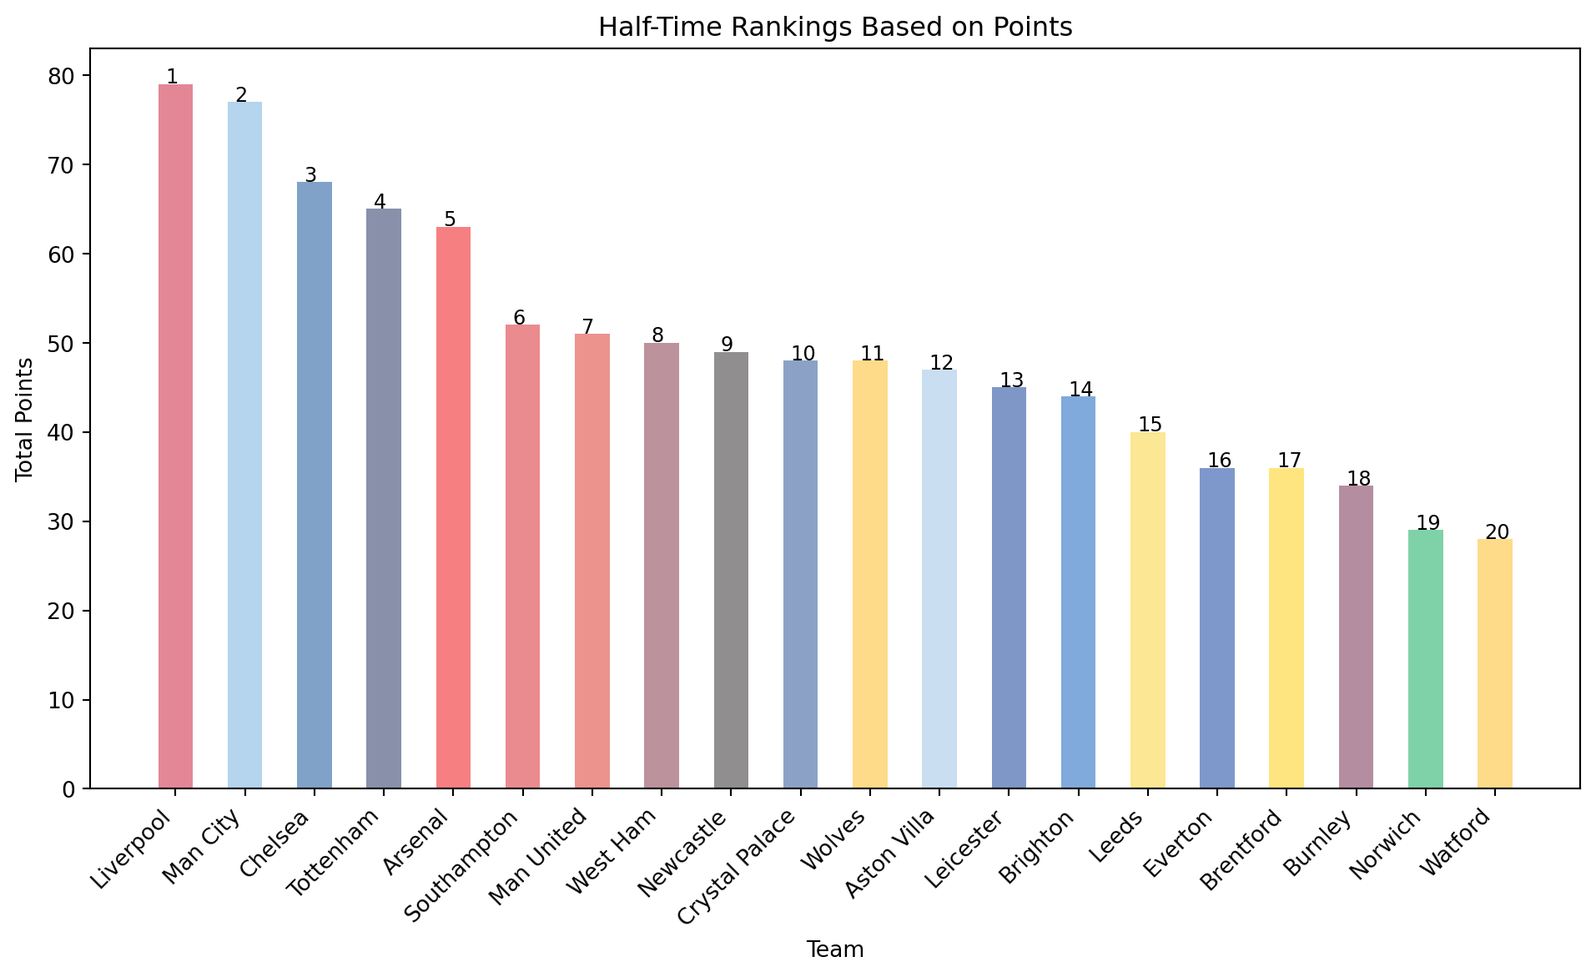
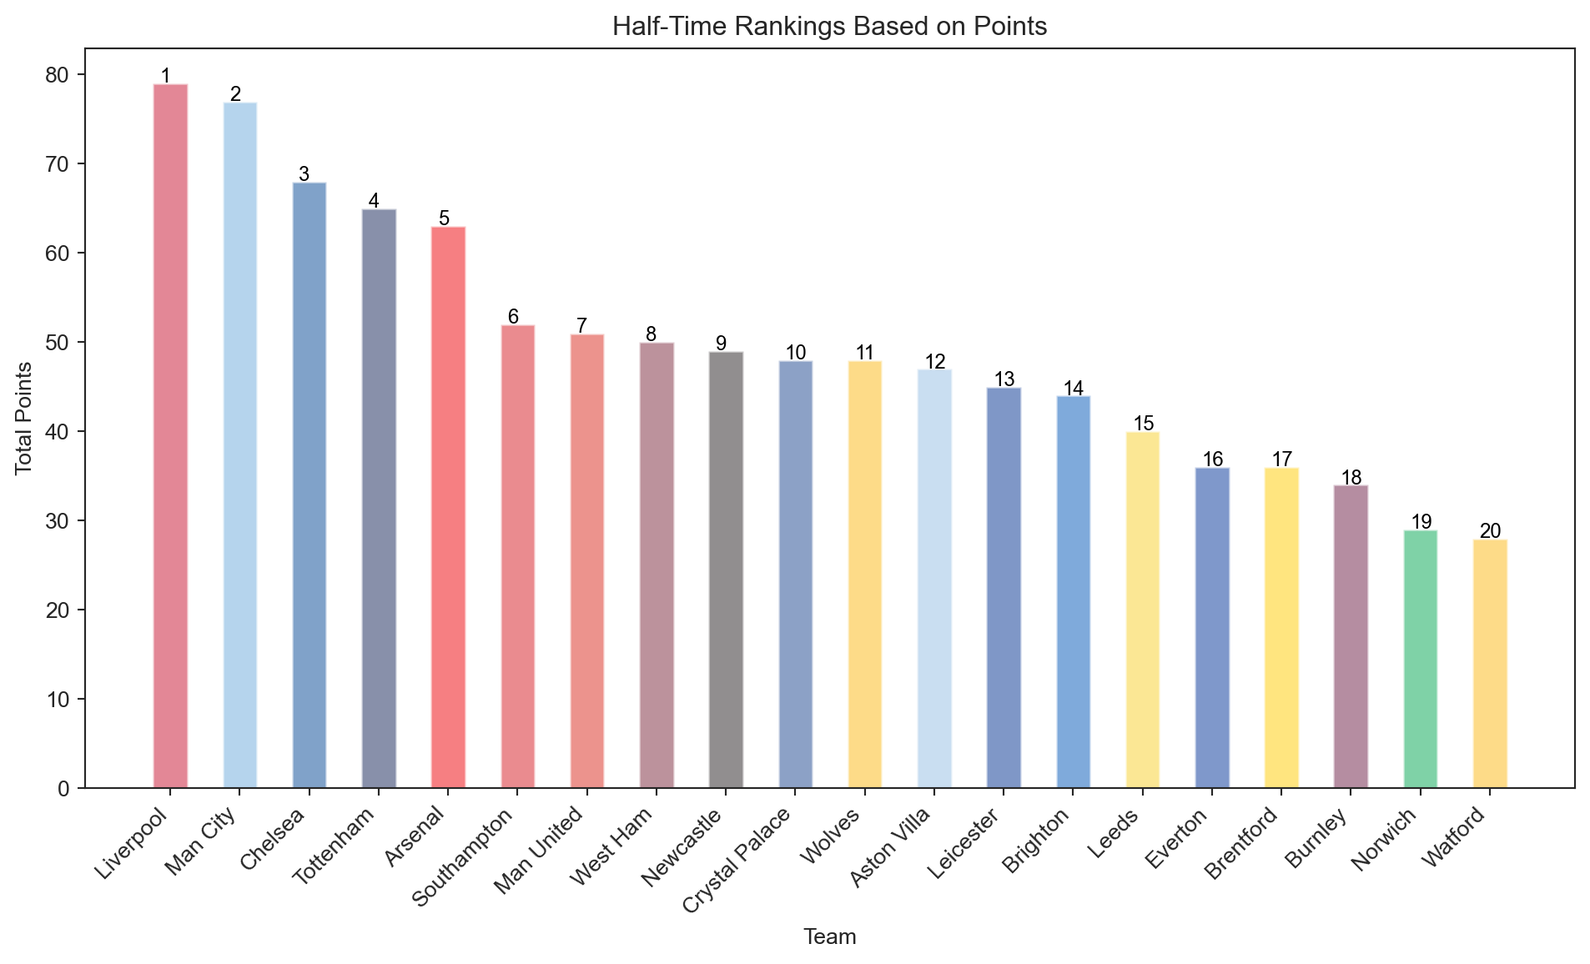
Finalized Q2

diff --git a/_site/index.html b/_site/index.html
@@ -226,7 +226,7 @@ pre > code.sourceCode > span > a:first-child::before { text-decoration: underlin
 <h3 class="anchored" data-anchor-id="approach">Approach</h3>
 <p>First, we do a logistic regression analysis to see how in-game metrics might be used to predict a home team’s outcome. We choose relevant attributes such as shots, shots on goal, fouls committed, and cards both the home and away teams have earned. To guarantee the robustness of the model, the dataset is divided into training and testing sets. The logistic regression model is then trained, and its effectiveness is assessed using an accuracy score and a confusion matrix. We are able to measure the effect of every in-game indicator on the probability that the home team will win thanks to this scientific approach.</p>
 <p><strong>Data Preparation and Pre-processing</strong> We begin the data preparation step by loading the entire football dataset, which includes a wealth of match information from the 2021–2022 English Premier League season. We convert the full-time result (FTR) into a binary target variable called “Result,” where a “1” denotes a home team win, to make our analysis easier. Then, we choose crucial elements that could have an impact on how the game turns out, like shots, shots on goal, fouls, and cards both the home and away teams receive. We then divided the dataset into training and testing sets, which prepared the stage for creating and assessing our prediction model. The data is ready for perceptive examination thanks to this careful preparation.</p>
-<div id="699314e5" class="cell" data-execution_count="1">
+<div id="5237353c" class="cell" data-execution_count="1">
 <div class="sourceCode cell-code" id="cb1"><pre class="sourceCode python code-with-copy"><code class="sourceCode python"><span id="cb1-1"><a href="#cb1-1" aria-hidden="true" tabindex="-1"></a><span class="im">import</span> pandas <span class="im">as</span> pd</span>
 <span id="cb1-2"><a href="#cb1-2" aria-hidden="true" tabindex="-1"></a><span class="im">import</span> matplotlib.pyplot <span class="im">as</span> plt</span>
 <span id="cb1-3"><a href="#cb1-3" aria-hidden="true" tabindex="-1"></a><span class="im">import</span> seaborn <span class="im">as</span> sns</span>
@@ -259,7 +259,7 @@ pre > code.sourceCode > span > a:first-child::before { text-decoration: underlin
 <span id="cb1-30"><a href="#cb1-30" aria-hidden="true" tabindex="-1"></a>accuracy <span class="op">=</span> accuracy_score(y_test, y_pred)</span>
 <span id="cb1-31"><a href="#cb1-31" aria-hidden="true" tabindex="-1"></a>cm <span class="op">=</span> confusion_matrix(y_test, y_pred)</span></code><button title="Copy to Clipboard" class="code-copy-button"><i class="bi"></i></button></pre></div>
 </div>
-<div id="222e1ccf" class="cell" data-execution_count="2">
+<div id="bcea8efe" class="cell" data-execution_count="2">
 <div class="sourceCode cell-code" id="cb2"><pre class="sourceCode python code-with-copy"><code class="sourceCode python"><span id="cb2-1"><a href="#cb2-1" aria-hidden="true" tabindex="-1"></a><span class="co"># Plot 1: Feature importance visualization</span></span>
 <span id="cb2-2"><a href="#cb2-2" aria-hidden="true" tabindex="-1"></a>coefficients <span class="op">=</span> pd.DataFrame(model.coef_[<span class="dv">0</span>], X.columns, columns<span class="op">=</span>[<span class="st">'Coefficient'</span>]).sort_values(by<span class="op">=</span><span class="st">'Coefficient'</span>, ascending<span class="op">=</span><span class="va">False</span>)</span>
 <span id="cb2-3"><a href="#cb2-3" aria-hidden="true" tabindex="-1"></a>plt.figure(figsize<span class="op">=</span>(<span class="dv">10</span>, <span class="dv">8</span>))</span>
@@ -271,7 +271,7 @@ pre > code.sourceCode > span > a:first-child::before { text-decoration: underlin
 <div class="cell-output cell-output-display">
 <div>
 <figure class="figure">
-<p><img src="index_files/figure-html/cell-3-output-1.png" width="817" height="671" class="figure-img"></p>
+<p><img src="index_files/figure-html/cell-3-output-1.png" width="816" height="669" class="figure-img"></p>
 </figure>
 </div>
 </div>
@@ -279,7 +279,7 @@ pre > code.sourceCode > span > a:first-child::before { text-decoration: underlin
 <p><strong>Feature Importance Visualization by Logistic Regression</strong></p>
 <p>A positive coefficient value (bar extending to the right) suggests that higher values of the corresponding metric increase the likelihood of the home team winning. For instance, a positive coefficient for <code>Number of shots on Target by Home Team (HTS)</code> indicates that the home side has a greater chance of winning if they have more shoots on target.</p>
 <p>On the other hand, a negative coefficient value (bar extending to the left) indicates that the probability of the home side winning is decreased at greater levels of that statistic. For example, if <code>Number of redcards recieved Home Team (HR)</code> has a negative coefficient, it means that the home team’s chances of winning are likely to be lowered by committing more red cards received.</p>
-<div id="6ff164d4" class="cell" data-execution_count="3">
+<div id="eebbf502" class="cell" data-execution_count="3">
 <div class="sourceCode cell-code" id="cb3"><pre class="sourceCode python code-with-copy"><code class="sourceCode python"><span id="cb3-1"><a href="#cb3-1" aria-hidden="true" tabindex="-1"></a><span class="co"># Plot 2: Confusion Matrix</span></span>
 <span id="cb3-2"><a href="#cb3-2" aria-hidden="true" tabindex="-1"></a>sns.heatmap(cm, annot<span class="op">=</span><span class="va">True</span>, fmt<span class="op">=</span><span class="st">'d'</span>, cmap<span class="op">=</span><span class="st">'Blues'</span>)</span>
 <span id="cb3-3"><a href="#cb3-3" aria-hidden="true" tabindex="-1"></a>plt.title(<span class="st">'Confusion Matrix for Home Team Win Prediction'</span>)</span>
@@ -292,7 +292,7 @@ pre > code.sourceCode > span > a:first-child::before { text-decoration: underlin
 <div class="cell-output cell-output-display">
 <div>
 <figure class="figure">
-<p><img src="index_files/figure-html/cell-4-output-1.png" width="547" height="449" class="figure-img"></p>
+<p><img src="index_files/figure-html/cell-4-output-1.png" width="543" height="447" class="figure-img"></p>
 </figure>
 </div>
 </div>
@@ -303,7 +303,7 @@ pre > code.sourceCode > span > a:first-child::before { text-decoration: underlin
 <p><strong>Confusion Matrix for Home Team Win Prediction</strong></p>
 <p>This chart shows how well the model guessed if the home team would win a soccer game. It’s like a report card for the model’s predictions. For example, if the model guessed that the home team wouldn’t win (maybe it thought the game would be a draw or the away team would win), and that was correct, that count goes in the top left corner. If the model thought the home team wouldn’t win, but they actually did, that count goes in the bottom left corner.</p>
 <p>On the other hand, if the model predicted a home win and was right, that goes in the bottom right corner. But if it predicted a home win and was wrong, that goes in the top right corner.</p>
-<div id="534d5586" class="cell" data-execution_count="4">
+<div id="0f7dae58" class="cell" data-execution_count="4">
 <div class="sourceCode cell-code" id="cb5"><pre class="sourceCode python code-with-copy"><code class="sourceCode python"><span id="cb5-1"><a href="#cb5-1" aria-hidden="true" tabindex="-1"></a><span class="co"># Define the target variable - Home win (1) or not (0)</span></span>
 <span id="cb5-2"><a href="#cb5-2" aria-hidden="true" tabindex="-1"></a>df[<span class="st">'HomeWin'</span>] <span class="op">=</span> df[<span class="st">'FTR'</span>].<span class="bu">apply</span>(<span class="kw">lambda</span> x: <span class="dv">1</span> <span class="cf">if</span> x <span class="op">==</span> <span class="st">'H'</span> <span class="cf">else</span> <span class="dv">0</span>)</span>
 <span id="cb5-3"><a href="#cb5-3" aria-hidden="true" tabindex="-1"></a></span>
@@ -321,7 +321,7 @@ pre > code.sourceCode > span > a:first-child::before { text-decoration: underlin
 <div class="cell-output cell-output-display">
 <div>
 <figure class="figure">
-<p><img src="index_files/figure-html/cell-5-output-1.png" width="611" height="505" class="figure-img"></p>
+<p><img src="index_files/figure-html/cell-5-output-1.png" width="604" height="504" class="figure-img"></p>
 </figure>
 </div>
 </div>
@@ -411,24 +411,27 @@ pre > code.sourceCode > span > a:first-child::before { text-decoration: underlin
 <div id="cell-Plot-the-table-as-a-bar-plot-for-visualization" class="cell" data-execution_count="7">
 <details class="code-fold">
 <summary>Show code to plot team ranks</summary>
-<div class="sourceCode cell-code" id="cb8"><pre class="sourceCode python code-with-copy"><code class="sourceCode python"><span id="cb8-1"><a href="#cb8-1" aria-hidden="true" tabindex="-1"></a>plt.figure(figsize<span class="op">=</span>(<span class="dv">12</span>, <span class="dv">6</span>))</span>
-<span id="cb8-2"><a href="#cb8-2" aria-hidden="true" tabindex="-1"></a>bars <span class="op">=</span> plt.bar(ft_ranking[<span class="st">'Team'</span>], ft_ranking[<span class="st">'Points'</span>], color<span class="op">=</span>[team_colors.get(team, <span class="st">'gray'</span>) <span class="cf">for</span> team <span class="kw">in</span> ft_ranking[<span class="st">'Team'</span>]],alpha<span class="op">=</span><span class="fl">0.5</span>,width<span class="op">=</span><span class="fl">0.5</span>)</span>
-<span id="cb8-3"><a href="#cb8-3" aria-hidden="true" tabindex="-1"></a>plt.title(<span class="st">'Full-Time Rankings Based on Points'</span>)</span>
-<span id="cb8-4"><a href="#cb8-4" aria-hidden="true" tabindex="-1"></a>plt.xlabel(<span class="st">'Team'</span>)</span>
-<span id="cb8-5"><a href="#cb8-5" aria-hidden="true" tabindex="-1"></a>plt.ylabel(<span class="st">'Total Points'</span>)</span>
-<span id="cb8-6"><a href="#cb8-6" aria-hidden="true" tabindex="-1"></a>plt.xticks(rotation<span class="op">=</span><span class="dv">45</span>, ha<span class="op">=</span><span class="st">'center'</span>)</span>
-<span id="cb8-7"><a href="#cb8-7" aria-hidden="true" tabindex="-1"></a></span>
-<span id="cb8-8"><a href="#cb8-8" aria-hidden="true" tabindex="-1"></a></span>
-<span id="cb8-9"><a href="#cb8-9" aria-hidden="true" tabindex="-1"></a><span class="cf">for</span> bar, rank <span class="kw">in</span> <span class="bu">zip</span>(bars, ft_ranking[<span class="st">'Ranking'</span>]):</span>
-<span id="cb8-10"><a href="#cb8-10" aria-hidden="true" tabindex="-1"></a>    plt.text(bar.get_x() <span class="op">+</span> bar.get_width() <span class="op">/</span> <span class="dv">2</span> <span class="op">-</span> <span class="fl">0.15</span>, bar.get_height() <span class="op">+</span> <span class="fl">0.1</span>, <span class="bu">str</span>(rank), ha<span class="op">=</span><span class="st">'left'</span>, color<span class="op">=</span><span class="st">'black'</span>, fontsize<span class="op">=</span><span class="dv">12</span>)</span>
+<div class="sourceCode cell-code" id="cb8"><pre class="sourceCode python code-with-copy"><code class="sourceCode python"><span id="cb8-1"><a href="#cb8-1" aria-hidden="true" tabindex="-1"></a><span class="co"># Set the style to ticks</span></span>
+<span id="cb8-2"><a href="#cb8-2" aria-hidden="true" tabindex="-1"></a>sns.set_style(<span class="st">"ticks"</span>)</span>
+<span id="cb8-3"><a href="#cb8-3" aria-hidden="true" tabindex="-1"></a></span>
+<span id="cb8-4"><a href="#cb8-4" aria-hidden="true" tabindex="-1"></a>plt.figure(figsize<span class="op">=</span>(<span class="dv">12</span>, <span class="dv">6</span>))</span>
+<span id="cb8-5"><a href="#cb8-5" aria-hidden="true" tabindex="-1"></a>bars <span class="op">=</span> plt.bar(ft_ranking[<span class="st">'Team'</span>], ft_ranking[<span class="st">'Points'</span>], color<span class="op">=</span>[team_colors.get(team, <span class="st">'gray'</span>) <span class="cf">for</span> team <span class="kw">in</span> ft_ranking[<span class="st">'Team'</span>]],alpha<span class="op">=</span><span class="fl">0.5</span>,width<span class="op">=</span><span class="fl">0.5</span>)</span>
+<span id="cb8-6"><a href="#cb8-6" aria-hidden="true" tabindex="-1"></a>plt.title(<span class="st">'Full-Time Rankings Based on Points'</span>)</span>
+<span id="cb8-7"><a href="#cb8-7" aria-hidden="true" tabindex="-1"></a>plt.xlabel(<span class="st">'Team'</span>)</span>
+<span id="cb8-8"><a href="#cb8-8" aria-hidden="true" tabindex="-1"></a>plt.ylabel(<span class="st">'Total Points'</span>)</span>
+<span id="cb8-9"><a href="#cb8-9" aria-hidden="true" tabindex="-1"></a>plt.xticks(rotation<span class="op">=</span><span class="dv">45</span>, ha<span class="op">=</span><span class="st">'center'</span>)</span>
+<span id="cb8-10"><a href="#cb8-10" aria-hidden="true" tabindex="-1"></a></span>
 <span id="cb8-11"><a href="#cb8-11" aria-hidden="true" tabindex="-1"></a></span>
-<span id="cb8-12"><a href="#cb8-12" aria-hidden="true" tabindex="-1"></a></span>
-<span id="cb8-13"><a href="#cb8-13" aria-hidden="true" tabindex="-1"></a>plt.show()</span></code><button title="Copy to Clipboard" class="code-copy-button"><i class="bi"></i></button></pre></div>
+<span id="cb8-12"><a href="#cb8-12" aria-hidden="true" tabindex="-1"></a><span class="cf">for</span> bar, rank <span class="kw">in</span> <span class="bu">zip</span>(bars, ft_ranking[<span class="st">'Ranking'</span>]):</span>
+<span id="cb8-13"><a href="#cb8-13" aria-hidden="true" tabindex="-1"></a>    plt.text(bar.get_x() <span class="op">+</span> bar.get_width() <span class="op">/</span> <span class="dv">2</span> <span class="op">-</span> <span class="fl">0.15</span>, bar.get_height() <span class="op">+</span> <span class="fl">0.1</span>, <span class="bu">str</span>(rank), ha<span class="op">=</span><span class="st">'left'</span>, color<span class="op">=</span><span class="st">'black'</span>, fontsize<span class="op">=</span><span class="dv">12</span>)</span>
+<span id="cb8-14"><a href="#cb8-14" aria-hidden="true" tabindex="-1"></a></span>
+<span id="cb8-15"><a href="#cb8-15" aria-hidden="true" tabindex="-1"></a></span>
+<span id="cb8-16"><a href="#cb8-16" aria-hidden="true" tabindex="-1"></a>plt.show()</span></code><button title="Copy to Clipboard" class="code-copy-button"><i class="bi"></i></button></pre></div>
 </details>
 <div class="cell-output cell-output-display">
 <div>
 <figure class="figure">
-<p><img src="index_files/figure-html/plot-the-table-as-a-bar-plot-for-visualization-output-1.png" id="plot-the-table-as-a-bar-plot-for-visualization" width="957" height="586" class="figure-img"></p>
+<p><img src="index_files/figure-html/plot-the-table-as-a-bar-plot-for-visualization-output-1.png" id="plot-the-table-as-a-bar-plot-for-visualization" width="953" height="578" class="figure-img"></p>
 </figure>
 </div>
 </div>
@@ -503,26 +506,22 @@ pre > code.sourceCode > span > a:first-child::before { text-decoration: underlin
 <div id="cell-plot-full-time-rankings-based-on-goal-difference" class="cell" data-execution_count="9">
 <details class="code-fold">
 <summary>Show code to plot team ranks when considering goal difference</summary>
-<div class="sourceCode cell-code" id="cb11"><pre class="sourceCode python code-with-copy"><code class="sourceCode python"><span id="cb11-1"><a href="#cb11-1" aria-hidden="true" tabindex="-1"></a>fig, ax <span class="op">=</span> plt.subplots(figsize<span class="op">=</span>(<span class="dv">12</span>, <span class="dv">6</span>))</span>
-<span id="cb11-2"><a href="#cb11-2" aria-hidden="true" tabindex="-1"></a>bars <span class="op">=</span> ax.bar(ft_ranking[<span class="st">'Team'</span>], ft_ranking[<span class="st">'GoalDifference'</span>], color<span class="op">=</span>[team_colors.get(team, <span class="st">'gray'</span>) <span class="cf">for</span> team <span class="kw">in</span> ft_ranking[<span class="st">'Team'</span>]], alpha<span class="op">=</span><span class="fl">0.5</span>, width<span class="op">=</span><span class="fl">0.5</span>)</span>
-<span id="cb11-3"><a href="#cb11-3" aria-hidden="true" tabindex="-1"></a>plt.title(<span class="st">'Bar Plot of Goal Difference for Teams'</span>)</span>
-<span id="cb11-4"><a href="#cb11-4" aria-hidden="true" tabindex="-1"></a>plt.xlabel(<span class="st">'Team'</span>)</span>
-<span id="cb11-5"><a href="#cb11-5" aria-hidden="true" tabindex="-1"></a>plt.ylabel(<span class="st">'Goals '</span>)</span>
-<span id="cb11-6"><a href="#cb11-6" aria-hidden="true" tabindex="-1"></a>plt.xticks(rotation<span class="op">=</span><span class="dv">45</span>, ha<span class="op">=</span><span class="st">'right'</span>)</span>
-<span id="cb11-7"><a href="#cb11-7" aria-hidden="true" tabindex="-1"></a></span>
-<span id="cb11-8"><a href="#cb11-8" aria-hidden="true" tabindex="-1"></a><span class="co"># Create a secondary x-axis at the top</span></span>
-<span id="cb11-9"><a href="#cb11-9" aria-hidden="true" tabindex="-1"></a>ax2 <span class="op">=</span> ax.twiny()</span>
-<span id="cb11-10"><a href="#cb11-10" aria-hidden="true" tabindex="-1"></a>ax2.set_xlim(ax.get_xlim())</span>
-<span id="cb11-11"><a href="#cb11-11" aria-hidden="true" tabindex="-1"></a>ax2.set_xticks(ax.get_xticks())</span>
-<span id="cb11-12"><a href="#cb11-12" aria-hidden="true" tabindex="-1"></a>ax2.set_xticklabels(ft_ranking[<span class="st">'GoalDifference'</span>], ha<span class="op">=</span><span class="st">'left'</span>)</span>
-<span id="cb11-13"><a href="#cb11-13" aria-hidden="true" tabindex="-1"></a>ax2.set_xlabel(<span class="st">'Goal Difference'</span>)</span>
-<span id="cb11-14"><a href="#cb11-14" aria-hidden="true" tabindex="-1"></a></span>
-<span id="cb11-15"><a href="#cb11-15" aria-hidden="true" tabindex="-1"></a>plt.show()</span></code><button title="Copy to Clipboard" class="code-copy-button"><i class="bi"></i></button></pre></div>
+<div class="sourceCode cell-code" id="cb11"><pre class="sourceCode python code-with-copy"><code class="sourceCode python"><span id="cb11-1"><a href="#cb11-1" aria-hidden="true" tabindex="-1"></a><span class="co"># Set the style to whitegrid</span></span>
+<span id="cb11-2"><a href="#cb11-2" aria-hidden="true" tabindex="-1"></a>sns.set_style(<span class="st">"whitegrid"</span>)</span>
+<span id="cb11-3"><a href="#cb11-3" aria-hidden="true" tabindex="-1"></a></span>
+<span id="cb11-4"><a href="#cb11-4" aria-hidden="true" tabindex="-1"></a>fig, ax <span class="op">=</span> plt.subplots(figsize <span class="op">=</span> (<span class="dv">12</span>, <span class="dv">6</span>))</span>
+<span id="cb11-5"><a href="#cb11-5" aria-hidden="true" tabindex="-1"></a>bars <span class="op">=</span> ax.bar(ft_ranking[<span class="st">'Team'</span>], ft_ranking[<span class="st">'GoalDifference'</span>], color <span class="op">=</span> [team_colors.get(team, <span class="st">'gray'</span>) <span class="cf">for</span> team <span class="kw">in</span> ft_ranking[<span class="st">'Team'</span>]], alpha<span class="op">=</span><span class="fl">0.5</span>, width<span class="op">=</span><span class="fl">0.5</span>)</span>
+<span id="cb11-6"><a href="#cb11-6" aria-hidden="true" tabindex="-1"></a>plt.title(<span class="st">'Bar Plot of Goal Difference for Teams'</span>)</span>
+<span id="cb11-7"><a href="#cb11-7" aria-hidden="true" tabindex="-1"></a>plt.xlabel(<span class="st">'Team'</span>)</span>
+<span id="cb11-8"><a href="#cb11-8" aria-hidden="true" tabindex="-1"></a>plt.ylabel(<span class="st">'Goal Difference'</span>)</span>
+<span id="cb11-9"><a href="#cb11-9" aria-hidden="true" tabindex="-1"></a>plt.xticks(rotation<span class="op">=</span><span class="dv">45</span>, ha<span class="op">=</span><span class="st">'right'</span>)</span>
+<span id="cb11-10"><a href="#cb11-10" aria-hidden="true" tabindex="-1"></a></span>
+<span id="cb11-11"><a href="#cb11-11" aria-hidden="true" tabindex="-1"></a>plt.show()</span></code><button title="Copy to Clipboard" class="code-copy-button"><i class="bi"></i></button></pre></div>
 </details>
 <div class="cell-output cell-output-display">
 <div>
 <figure class="figure">
-<p><img src="index_files/figure-html/plot-full-time-rankings-based-on-goal-difference-output-1.png" id="plot-full-time-rankings-based-on-goal-difference" width="968" height="624" class="figure-img"></p>
+<p><img src="index_files/figure-html/plot-full-time-rankings-based-on-goal-difference-output-1.png" id="plot-full-time-rankings-based-on-goal-difference" width="961" height="578" class="figure-img"></p>
 </figure>
 </div>
 </div>
@@ -553,11 +552,11 @@ pre > code.sourceCode > span > a:first-child::before { text-decoration: underlin
 17         Watford      28       20</code></pre>
 </div>
 </div>
-<div id="53de54e8" class="cell" data-execution_count="11">
+<div id="08632316" class="cell" data-execution_count="11">
 <div class="cell-output cell-output-display">
 <div>
 <figure class="figure">
-<p><img src="index_files/figure-html/cell-12-output-1.png" width="957" height="586" class="figure-img"></p>
+<p><img src="index_files/figure-html/cell-12-output-1.png" width="953" height="578" class="figure-img"></p>
 </figure>
 </div>
 </div>
@@ -588,11 +587,11 @@ pre > code.sourceCode > span > a:first-child::before { text-decoration: underlin
 19         Watford      28             -19       20</code></pre>
 </div>
 </div>
-<div id="c332ec08" class="cell" data-execution_count="13">
+<div id="f1617d5a" class="cell" data-execution_count="13">
 <div class="cell-output cell-output-display">
 <div>
 <figure class="figure">
-<p><img src="index_files/figure-html/cell-14-output-1.png" width="968" height="608" class="figure-img"></p>
+<p><img src="index_files/figure-html/cell-14-output-1.png" width="961" height="578" class="figure-img"></p>
 </figure>
 </div>
 </div>
@@ -600,10 +599,16 @@ pre > code.sourceCode > span > a:first-child::before { text-decoration: underlin
 </section>
 <section id="discussion" class="level3">
 <h3 class="anchored" data-anchor-id="discussion">Discussion</h3>
+<p>The analysis of halftime outcomes in the context of team rankings provides valuable insights into the dynamics of team performance and strategic decision-making in professional football. In particular, focusing on the top three teams before and after halftime reveals interesting patterns. Despite the structural changes in the game, the top three teams largely maintain their positions, with only minor adjustments observed. This consistency suggests that these teams possess strategies or training regimens that consistently place them at the forefront of the league, regardless of variations in match structure or halftime strategies.</p>
+<p>When examining the overall changes in rankings, notable shifts are observed, particularly in the swapping of first and second place. This exchange of positions between the top two teams, while subtle, may indicate differing strengths in the first and second halves of matches. For instance, while Manchester City emerges as the eventual winners of the EPL league, the swapping of positions with Liverpool could imply a potential area for improvement in either team’s gameplay strategy. It suggests the need for Liverpool to enhance their stamina or second-half strategies, despite their strong performance in the initial phases of matches.</p>
+<p>Moreover, significant changes in rank, such as Southampton’s improvement from 15th to 6th place, underscore the importance of halftime strategies and team conditioning. The notable rise in Southampton’s ranking may signify either a highly aggressive starting strategy that may not be sustainable or potential deficiencies in second-half performance due to inadequate conditioning or strategic adjustments. These findings highlight the complexity of team dynamics and the multifaceted factors influencing match outcomes and league standings.</p>
+<p>Overall, the insights derived from this analysis can offer valuable guidance for teams undergoing significant shifts in rankings. By identifying potential areas for improvement, such as halftime strategies, conditioning, or tactical adjustments, teams can make informed decisions to enhance their performance and competitiveness in professional football leagues.</p>
 </section>
 </section>
 <section id="references" class="level2">
 <h2 class="anchored" data-anchor-id="references">References</h2>
+<p>Pandas documentation used to assist with joining dataframes and resetting index. https://pandas.pydata.org/docs/reference/api/pandas.DataFrame.reset_index.html https://pandas.pydata.org/docs/reference/api/pandas.DataFrame.merge.html</p>
+<p>We also checked the official Premier League website to determine how rankings are calculated. https://www.premierleague.com/premier-league-explained</p>
 
 
 </section>
